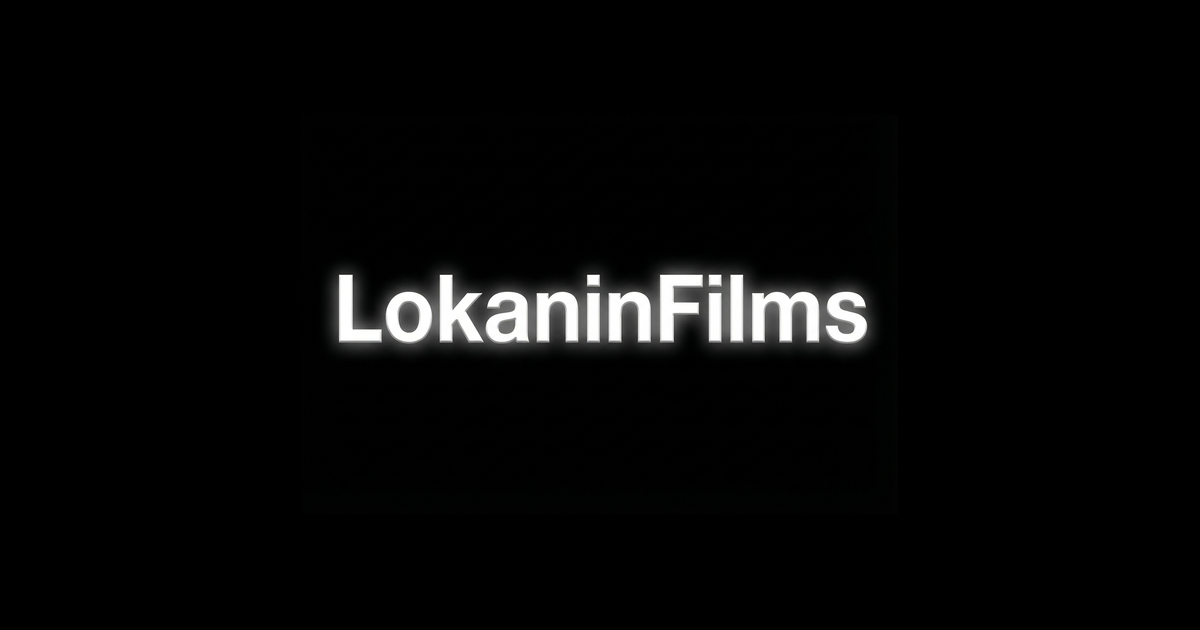
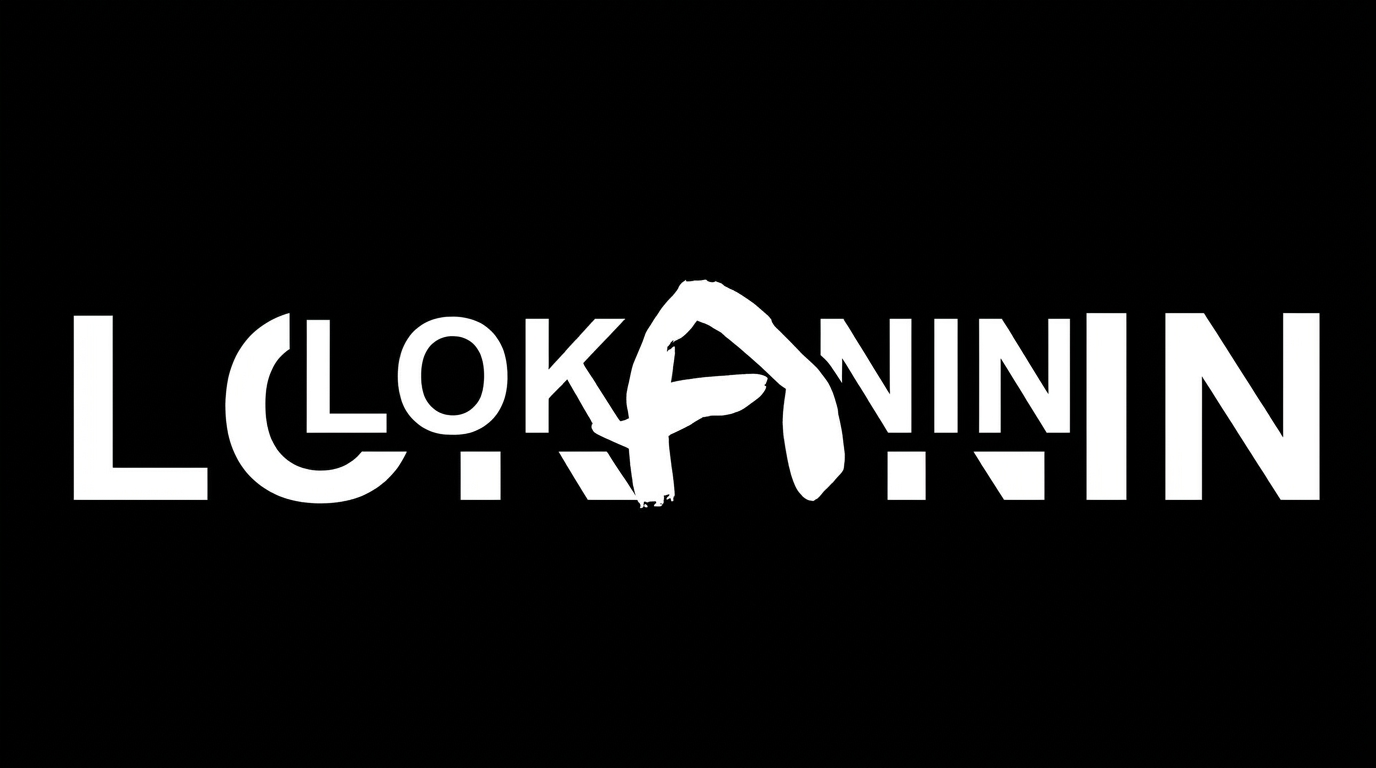
web view

Changed region(s): [[0.0308, 0.3619, 0.9867, 0.6635]]

diff --git a/packages/web/src/web/components/metadata.tsx b/packages/web/src/web/components/metadata.tsx
@@ -1,27 +1,21 @@
 import siteConfig from "../../../website.config.json";
 
 export function Metadata() {
-	return (
-		<>
-			<title>{siteConfig.name}</title>
-			<meta name="description" content={siteConfig.description} />
-
-			{/* Open Graph */}
-			<meta property="og:title" content={siteConfig.name} />
-			<meta property="og:description" content={siteConfig.description} />
-			<meta property="og:image" content={siteConfig.ogImage} />
-			<meta property="og:url" content={siteConfig.url} />
-			<meta property="og:type" content="website" />
-
-			{/* Twitter */}
-			<meta name="twitter:card" content={siteConfig.twitter.card} />
-			<meta name="twitter:site" content={siteConfig.twitter.site} />
-			<meta name="twitter:title" content={siteConfig.name} />
-			<meta name="twitter:description" content={siteConfig.description} />
-			<meta name="twitter:image" content={siteConfig.ogImage} />
-
-			{/* Theme */}
-			<meta name="theme-color" content={siteConfig.themeColor} />
-		</>
-	);
+  return (
+    <>
+      <title>{siteConfig.name}</title>
+      <meta name="description" content={siteConfig.description} />
+      <meta property="og:title" content={siteConfig.name} />
+      <meta property="og:description" content={siteConfig.description} />
+      <meta property="og:image" content={siteConfig.ogImage} />
+      <meta property="og:url" content={siteConfig.url} />
+      <meta property="og:type" content="website" />
+      <meta name="twitter:card" content={siteConfig.twitter.card} />
+      <meta name="twitter:site" content={siteConfig.twitter.site} />
+      <meta name="twitter:title" content={siteConfig.name} />
+      <meta name="twitter:description" content={siteConfig.description} />
+      <meta name="twitter:image" content={siteConfig.ogImage} />
+      <meta name="theme-color" content={siteConfig.themeColor} />
+    </>
+  );
 }

diff --git a/packages/web/index.html b/packages/web/index.html
@@ -4,17 +4,20 @@
   <meta charset="UTF-8" />
   <meta name="viewport" content="width=device-width, initial-scale=1.0" />
   <meta name="theme-color" content="#1a1a1a" />
-  <link rel="icon" href="/favicon.png?v=4" type="image/png" />
-  <link rel="icon" href="/favicon.ico?v=4" sizes="any" />
-  <link rel="apple-touch-icon" href="/favicon.png?v=4" />
-  <title>LokaninFilms | Film Production</title>
+  <title>LokaninFilms</title>
+  <link rel="icon" type="image/png" href="/favicon.png" />
+  <link rel="icon" type="image/x-icon" href="/favicon.ico" />
+  <link rel="apple-touch-icon" href="/favicon.png" />
   <link rel="preconnect" href="https://fonts.googleapis.com">
   <link rel="preconnect" href="https://fonts.gstatic.com" crossorigin>
   <link href="https://fonts.googleapis.com/css2?family=Cormorant+Garamond:ital,wght@0,300;0,400;0,500;0,600;0,700;1,300;1,400;1,500;1,600;1,700&family=Outfit:wght@100..900&family=Syne:wght@400..800&display=swap" rel="stylesheet">
+  <meta property="og:title" content="LokaninFilms" />
+  <meta property="og:description" content="LokaninFilms — Film production in Stockholm. Winner of Stockholm Film Festival Junior 2025 with our movie Golden Hours." />
   <meta property="og:image" content="/og-image.png" />
   <meta property="og:image:width" content="1200" />
   <meta property="og:image:height" content="630" />
   <meta property="og:image:type" content="image/png" />
+  <meta property="og:type" content="website" />
   <meta name="twitter:card" content="summary_large_image" />
   <meta name="twitter:image" content="/og-image.png" />
 </head>

diff --git a/packages/web/src/web/pages/story.tsx b/packages/web/src/web/pages/story.tsx
@@ -35,7 +35,7 @@ export default function Story() {
                 <h3 className="font-sans text-[12px] tracking-[0.4em] uppercase text-muted-foreground">Who we are</h3>
                 <div className="space-y-6 sm:space-y-8 font-serif text-base sm:text-lg md:text-xl leading-relaxed text-foreground/90">
                   <p>
-                    Lokanin is a team of young Swedish filmmakers based in Stockholm. The group is run by 16 year olds with real festival experience and a clear vision. One of the founders, Andreas Daban Elvesund, won Stockholm Film Festival Junior 2025 with the short film Golden Hours.
+                    Lokanin is a team of young Swedish filmmakers based in Stockholm. The group is run by 16 year olds with real festival experience and a clear vision. The founder, Andreas Daban Elvesund, won Stockholm Film Festival Junior 2025 with Lokanin's short film Golden Hours.
                   </p>
                   <p>
                     In 2019, my interest in film began, and a year later I met Loke, who shared my passion, so we wanted to collaborate. Then we met Nils who came up with the idea for the whole company, and I realized we should have a website. So, we all decided on a company name that would be a combination of our names, Loke Andreas and Nils: Lokanin. And with the years we have improved a lot on everything.